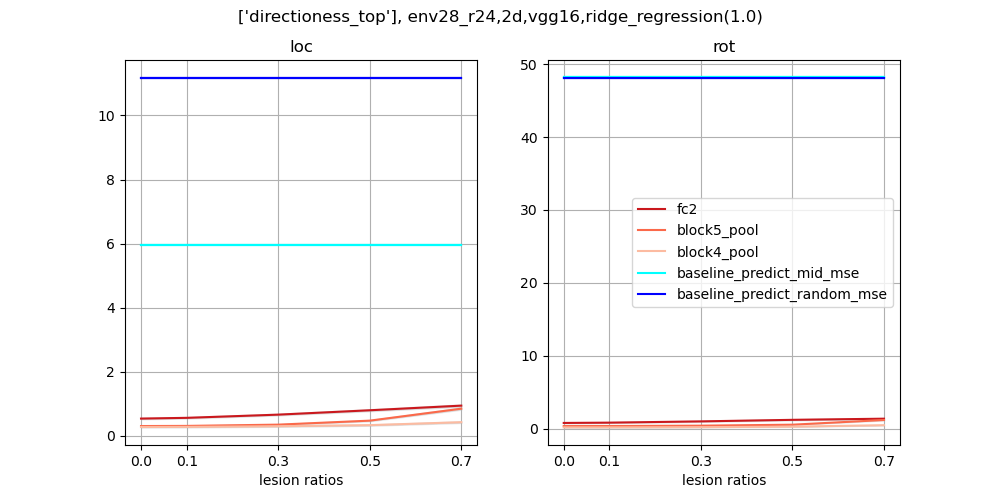
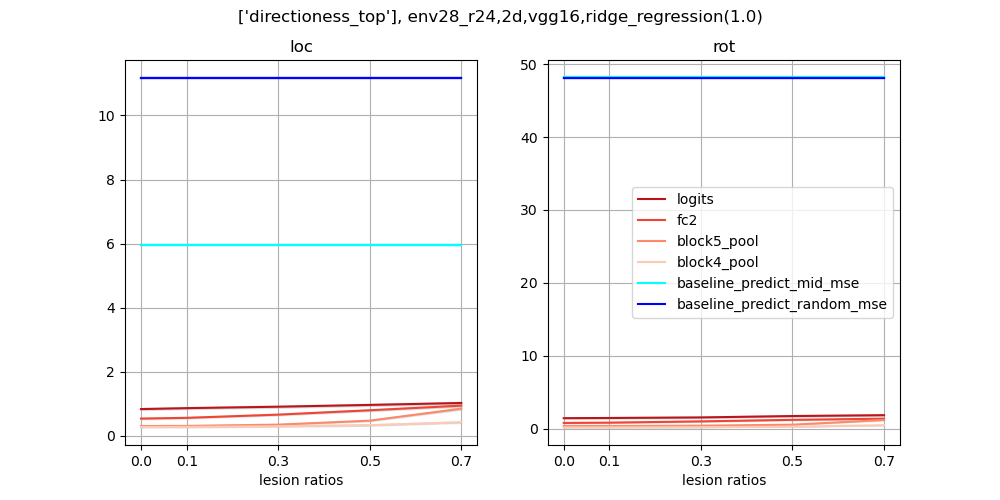
update figs: lesion by directioness inc. logits layer

Changed region(s): [[0.62, 0.39, 0.899, 0.63], [0.558, 0.81, 0.899, 0.87], [0.124, 0.78, 0.465, 0.87]]

diff --git a/inspect_model_units.py b/inspect_model_units.py
@@ -1635,9 +1635,9 @@ if __name__ == '__main__':
     # ======================================== #
     TF_NUM_INTRAOP_THREADS = 10
     CPU_NUM_PROCESSES = 4     
-    experiment = 'unit_chart_by_coef'
-    reference_experiment = 'loc_n_rot'
-    envs = ['env36_r24']
+    experiment = 'unit_chart'
+    reference_experiment = None
+    envs = ['env28_r24']
     movement_modes = ['2d']
     sampling_rates = [0.3]
     random_seeds = [42]
@@ -1671,11 +1671,11 @@ if __name__ == '__main__':
 
     multi_envs_inspect_units_GPU(
     # multi_envs_inspect_units_CPU(
-        # target_func=_single_env_produce_unit_chart,                       # set experiment='unit_chart'
+        target_func=_single_env_produce_unit_chart,                       # set experiment='unit_chart'
         # target_func=_single_env_viz_units_ranked_by_unit_chart,           # set experiment='unit_chart'
         # target_func=_single_env_viz_unit_chart,                           # set experiment='unit_chart'
         # target_func=_single_env_viz_units_ranked_by_coef_n_save_coef_ranked_unit_charts,    # set experiment='unit_chart_by_coef'
-        target_func=_single_env_viz_units_by_type_ranked_by_coef,
+        # target_func=_single_env_viz_units_by_type_ranked_by_coef,
         # target_func=_single_env_viz_units_by_type_pairs_ranked_by_coef,
         envs=envs,
         model_names=model_names,

diff --git a/location_n_rotation_prediction.py b/location_n_rotation_prediction.py
@@ -1348,11 +1348,11 @@ if __name__ == '__main__':
     moving_trajectories = ['uniform']
     decoding_model_choices = [{'name': 'ridge_regression', 'hparams': 1.0}]
     experiment = 'loc_n_rot'
-    reference_experiment = 'loc_n_rot'   #'loc_n_rot|border_dist|unit_chart'
-    metric = 'coef'
-    thr = 'thr'                            # if metric=='coef', thr='thr'
-    rank = 'random'
-    target = '_loc'                          # if metric=='coef', target='_loc|_rot
+    reference_experiment = 'unit_chart'   #'loc_n_rot|border_dist|unit_chart'
+    metric = 'directioness'
+    thr = '0'                            # if metric=='coef', thr='thr', else '0'
+    rank = 'top'
+    target = ''                          # if metric=='coef', target='_loc|_rot', else ''
     feature_selections = [
         'l2',
         f'l2+lesion_{metric}_{thr}_{rank}_0.1{target}',
